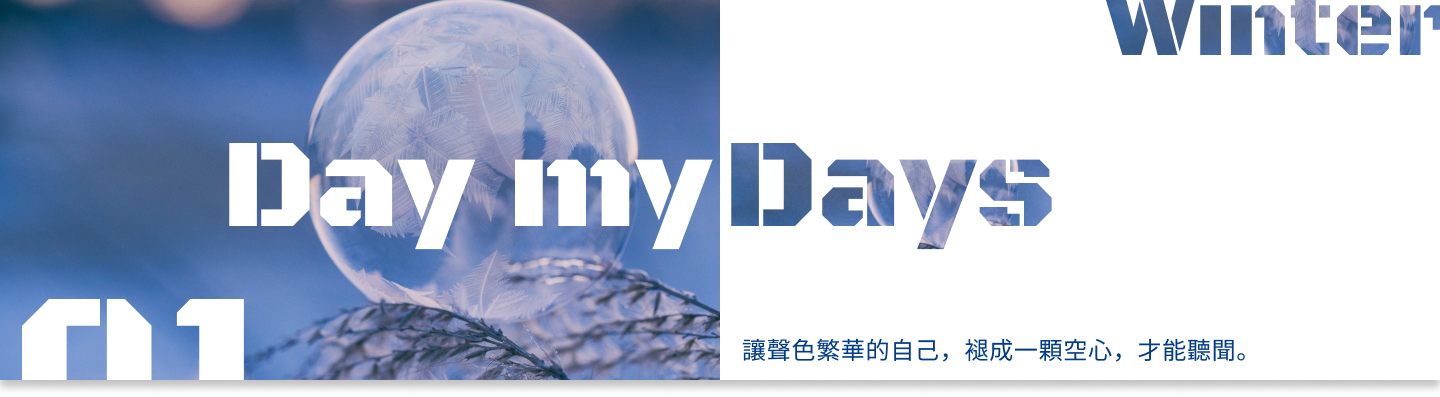
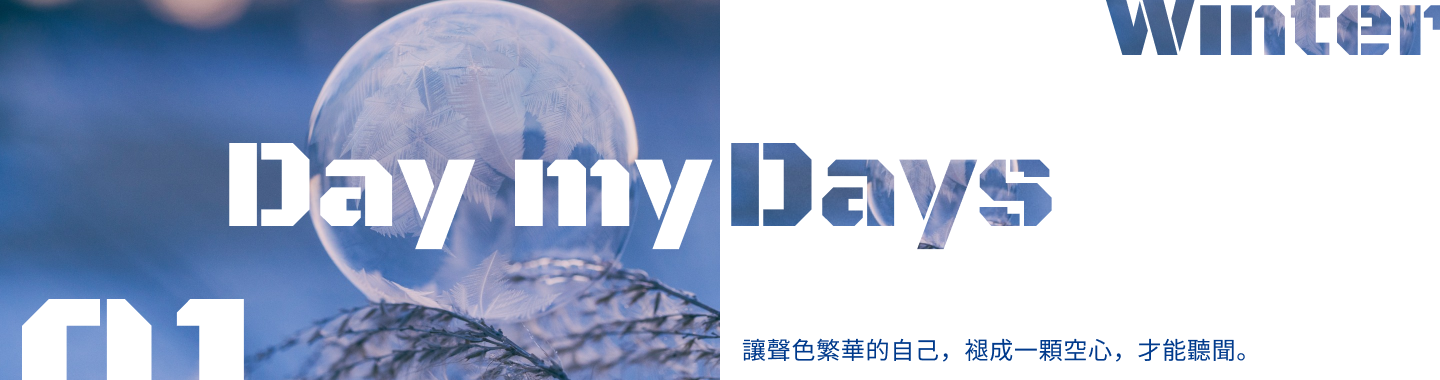
edited registerview

diff --git a/vuetify-project/src/views/front/RegisterView.vue b/vuetify-project/src/views/front/RegisterView.vue
@@ -1,3 +1,24 @@
 <template>
-  <h1>Register</h1>
+  <v-container fluid style="background-color: #ffefcf; margin-top=-10px;">
+    <v-row class="justify-center">
+      <v-col cols="8">
+        <h1>註冊</h1>
+      </v-col>
+      <v-col cols="8">
+        <v-form>
+          <v-text-field label="帳號" minlength="4" maxlength="20" counter></v-text-field>
+          <v-text-field label="信箱" type="email"></v-text-field>
+          <v-text-field label="密碼" minlength="4" maxlength="20" counter type="password"></v-text-field>
+          <v-text-field label="確認密碼" minlength="4" maxlength="20" counter type="password"></v-text-field>
+          <v-btn type="submit" color="#ad4e00">註冊</v-btn>
+        </v-form>
+      </v-col>
+    </v-row>
+  </v-container>
 </template>
+
+<style>
+h1{
+  color:#ad4e00;
+}
+</style>

diff --git a/vuetify-project/src/layouts/FrontLayout.vue b/vuetify-project/src/layouts/FrontLayout.vue
@@ -35,7 +35,7 @@
   </v-app-bar>
   <!-- 頁面內容 -->
   <v-main>
-    <v-banner class="my-banner pa-0">
+    <v-banner class="my-banner pa-0 bottom-shadow">
       <v-img src="../assets/banner.png" alt="Banner Image"></v-img>
     </v-banner>
     <router-view></router-view>
@@ -63,5 +63,8 @@ const navItems = [
 <style scoped>
 .my-banner{
   border-bottom: none;
+}
+.bottom-shadow{
+  box-shadow:0 6px 4px rgba(0,0,0,0.2)
 }
 </style>
